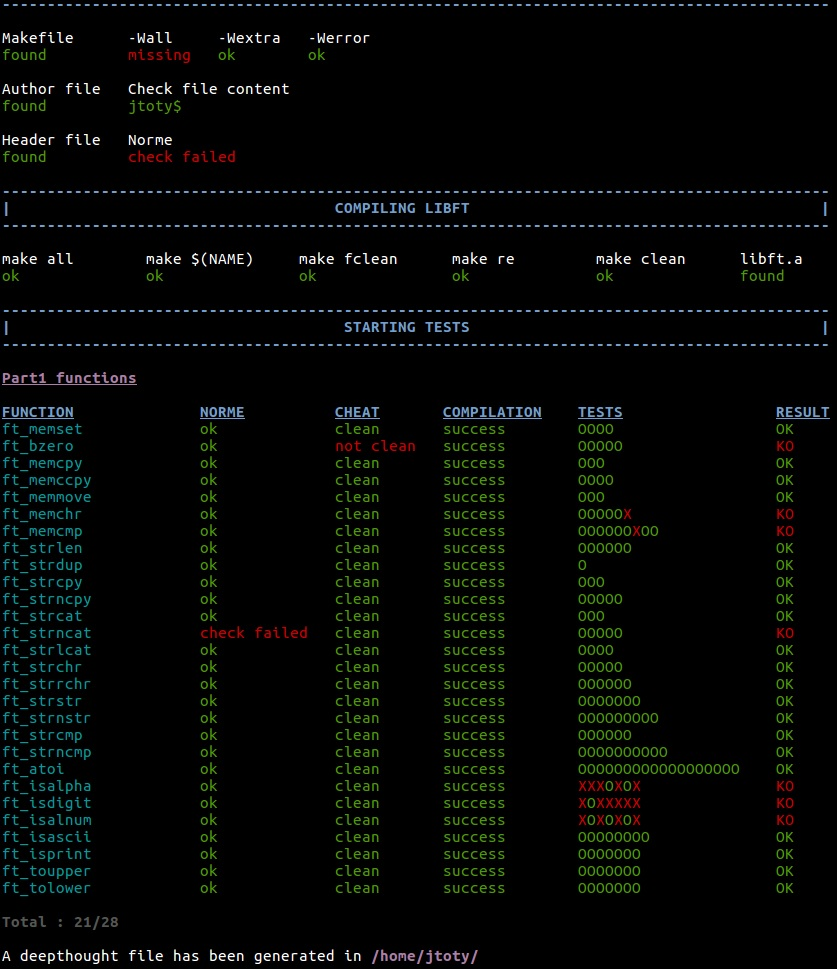
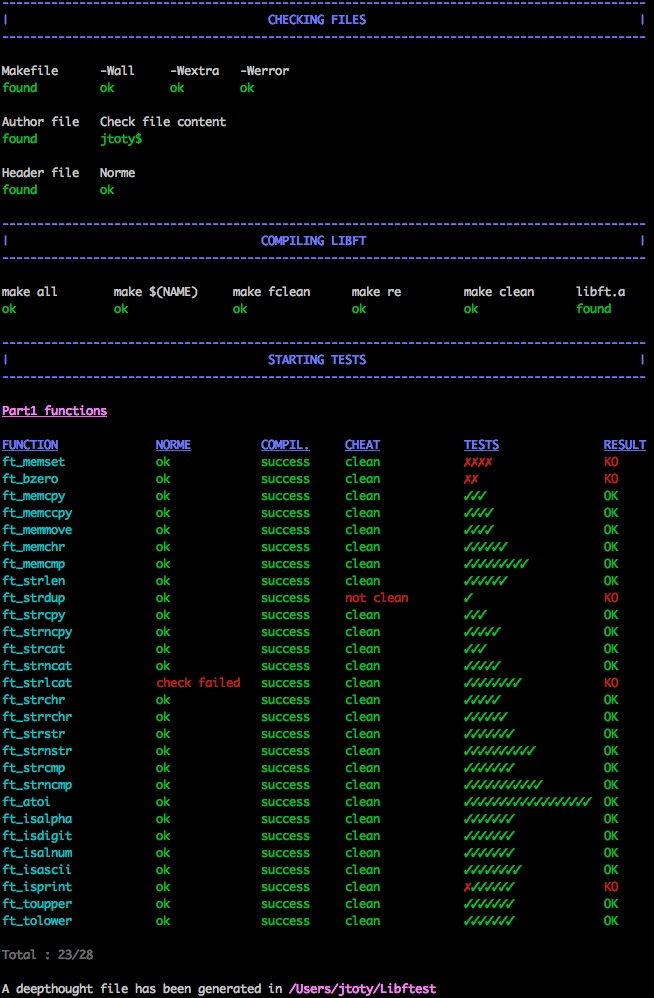
add test ft_strncpy & change image for readme

diff --git a/tests/Part1_functions/ft_strncpy/main.c b/tests/Part1_functions/ft_strncpy/main.c
@@ -22,34 +22,45 @@ int		main(int argc, const char *argv[])
 	if (!(dest = (char *)malloc(sizeof(*dest) * 15)) || argc == 1)
 		return (0);
 	memset(dest, 0, 15);
-	memset(dest, 's', 13);
 	if (atoi(argv[1]) == 1)
 	{
+		memset(dest, 's', 13);
 		if (dest != ft_strncpy(dest, "lorem", 6))
 			ft_print_result("dest's adress was not returned\n", 30);
 		ft_print_result(dest, 15);
 	}
 	else if (atoi(argv[1]) == 2)
 	{
+		memset(dest, 's', 13);
 		if (dest != ft_strncpy(dest, "lorem", 8))
 			ft_print_result("dest's adress was not returned\n", 30);
 		ft_print_result(dest, 15);
 	}
 	else if (atoi(argv[1]) == 3)
 	{
+		memset(dest, 's', 13);
 		if (dest != ft_strncpy(dest, "", 3))
 			ft_print_result("dest's adress was not returned\n", 30);
 		ft_print_result(dest, 15);
 	}
 	else if (atoi(argv[1]) == 4)
 	{
+		memset(dest, 's', 13);
 		if (dest != ft_strncpy(dest, "lorem ipsum", 3))
 			ft_print_result("dest's adress was not returned\n", 30);
 		ft_print_result(dest, 15);
 	}
 	else if (atoi(argv[1]) == 5)
 	{
+		memset(dest, 's', 13);
 		if (dest != ft_strncpy(dest, "lorem ipsum", 0))
+			ft_print_result("dest's adress was not returned\n", 30);
+		ft_print_result(dest, 15);
+	}
+	else if (atoi(argv[1]) == 6)
+	{
+		memset(dest, 's', 5);
+		if (dest != ft_strncpy(dest, "lorem ipsum", 10))
 			ft_print_result("dest's adress was not returned\n", 30);
 		ft_print_result(dest, 15);
 	}

diff --git a/tests/Bonus_functions/ft_lstdel/main.c b/tests/Bonus_functions/ft_lstdel/main.c
@@ -11,9 +11,8 @@ void	ft_print_result(t_list *elem)
 	while (((char *)elem->content)[i])
 	{
 		write(1, &((char *)elem->content)[i], 1);
-		elem->content++;
+		i++;
 	}
-	write(1, "\n", 1);
 }
 
 void	ft_del(void *content, size_t size)
@@ -55,6 +54,7 @@ int main(int argc, const char *argv[])
 	char		str2 [] = "ipsum";
 	char		str3 [] = "dolor";
 	char		str4 [] = "sit";
+	//int			i;
 
 	elem = ft_lstnew(str, sizeof(str));
 	elem2 = ft_lstnew(str2, sizeof(str2));
@@ -65,18 +65,37 @@ int main(int argc, const char *argv[])
 	elem->next = elem2;
 	elem2->next = elem3;
 	elem3->next = elem4;
+	//i = '1';
 	if (atoi(argv[1]) == 1)
 	{
 		ft_lstdel(&elem3, &ft_del);
+		if (elem)
+			ft_print_result(elem);
+		else
+			write(1, "NULL", 4);
+		write(1, "\n", 1);
+		if (elem2)
+			ft_print_result(elem2);
+		else
+			write(1, "NULL", 4);
+		write(1, "\n", 1);
+		if (elem3)
+			ft_print_result(elem3);
+		else
+			write(1, "NULL", 4);
+		write(1, "\n", 1);
+		if (elem4)
+			ft_print_result(elem4);
+		else
+			write(1, "NULL", 4);
+		/*write(1, "\n", 1);
 		while (elem)
 		{
-			ft_print_result(elem);
+			write(1, &i, 1);
+			write(1, "\n", 1);
+			i++;
 			elem = elem->next;
-		}
-		if (!elem3)
-			write(1, "NULL", 4);
-		if (!elem4)
-			write(1, "\nNULL", 5);
+		}*/
 	}
 	return (0);
 }

diff --git a/tests/Bonus_functions/ft_lstdelone/main.c b/tests/Bonus_functions/ft_lstdelone/main.c
@@ -11,9 +11,8 @@ void	ft_print_result(t_list *elem)
 	while (((char *)elem->content)[i])
 	{
 		write(1, &((char *)elem->content)[i], 1);
-		elem->content++;
+		i++;
 	}
-	write(1, "\n", 1);
 }
 
 void	ft_del(void *content, size_t size)
@@ -55,6 +54,7 @@ int main(int argc, const char *argv[])
 	char		str2 [] = "ipsum";
 	char		str3 [] = "dolor";
 	char		str4 [] = "sit";
+	int			i;
 
 	elem = ft_lstnew(str, sizeof(str));
 	elem2 = ft_lstnew(str2, sizeof(str2));
@@ -65,18 +65,37 @@ int main(int argc, const char *argv[])
 	elem->next = elem2;
 	elem2->next = elem3;
 	elem3->next = elem4;
+	i = '1';
 	if (atoi(argv[1]) == 1)
 	{
 		ft_lstdelone(&elem3, &ft_del);
+		if (elem)
+			ft_print_result(elem);
+		else
+			write(1, "NULL", 4);
+		write(1, "\n", 1);
+		if (elem2)
+			ft_print_result(elem2);
+		else
+			write(1, "NULL", 4);
+		write(1, "\n", 1);
+		if (elem3)
+			ft_print_result(elem3);
+		else
+			write(1, "NULL", 4);
+		write(1, "\n", 1);
+		if (elem4)
+			ft_print_result(elem4);
+		else
+			write(1, "NULL", 4);
+		write(1, "\n", 1);
 		while (elem)
 		{
-			ft_print_result(elem);
+			write(1, &i, 1);
+			write(1, "\n", 1);
+			i++;
 			elem = elem->next;
 		}
-		if (!elem3)
-			write(1, "NULL", 4);
-		if (!elem4)
-			write(1, "\nNULL", 5);
 	}
 	return (0);
 }
